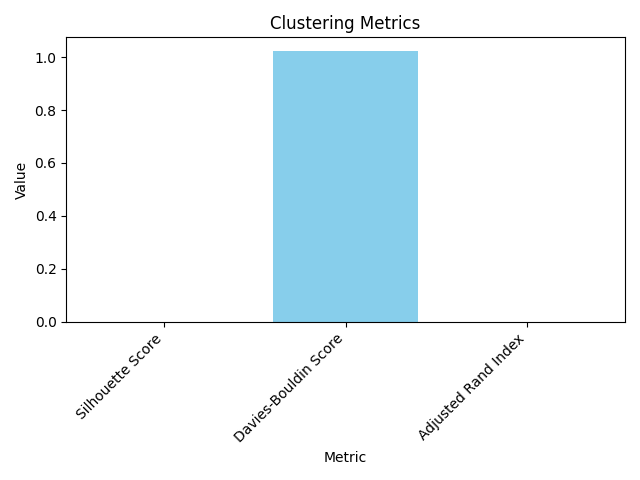
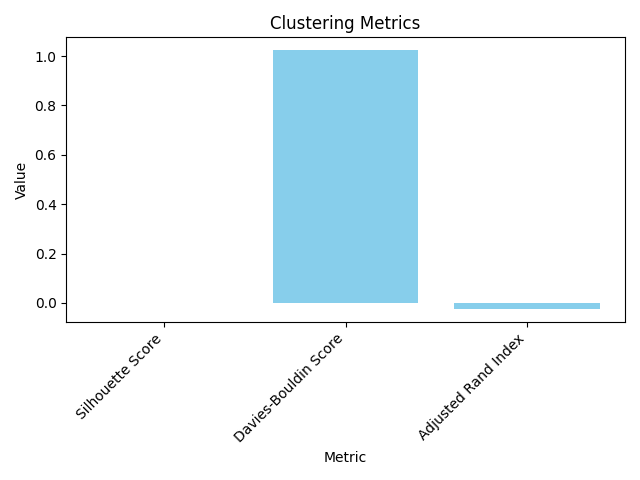
Fixed Ari cleaned repo

diff --git a/src/metrics.py b/src/metrics.py
@@ -2,18 +2,28 @@ from sklearn.metrics import silhouette_score, davies_bouldin_score, adjusted_ran
 import numpy as np
 
 def calculate_unsupervised_metrics(X, labels_pred, labels_true=None):
-    unique_labels = np.unique(labels_pred)
-    n_clusters = len(unique_labels)
-
-    if n_clusters < 2:
+    
+    labels_pred = np.array(labels_pred)
+    
+    if len(np.unique(labels_pred)) < 2 or np.all(labels_pred == -1):
         silhouette = None
         db_score = None
     else:
-        silhouette = silhouette_score(X, labels_pred)
-        db_score = davies_bouldin_score(X, labels_pred)
+        try:
+            silhouette = silhouette_score(X, labels_pred)
+        except:
+            silhouette = None
+
+        try:
+            db_score = davies_bouldin_score(X, labels_pred)
+        except:
+            db_score = None
 
     if labels_true is not None:
-        ari = adjusted_rand_score(labels_true, labels_pred)
+        try:
+            ari = adjusted_rand_score(labels_true, labels_pred)
+        except:
+            ari = None
     else:
         ari = None
 

diff --git a/main.py b/main.py
@@ -1,6 +1,7 @@
 import joblib
 import os
 import optuna
+import numpy as np
 from sklearn.cluster import KMeans, DBSCAN, AgglomerativeClustering
 from sklearn.metrics import silhouette_score
 from src.dimensionality import reduce_tsne, reduce_lle, reduce_umap, save_reduced
@@ -94,7 +95,7 @@ def main():
 
             labels_pred = cluster_func(X_red)
 
-            silhouette, db_score, ari = calculate_unsupervised_metrics(X_red, labels_pred)
+            silhouette, db_score, ari = calculate_unsupervised_metrics(X_red, labels_pred, y)
 
             metrics = {
                 "Silhouette Score": silhouette if silhouette is not None else "N/A",
@@ -103,7 +104,9 @@ def main():
             }
 
             metrics_writer.save_metrics(metrics, reduction_name, cluster_name)
-
+            if np.all(labels_pred == -1):
+                print(f"{reduction_name} + {cluster_name}: No clusters found (all -1). Skipping plot.")
+            continue
             plot_clusters(
                 X_red,
                 labels_pred,
